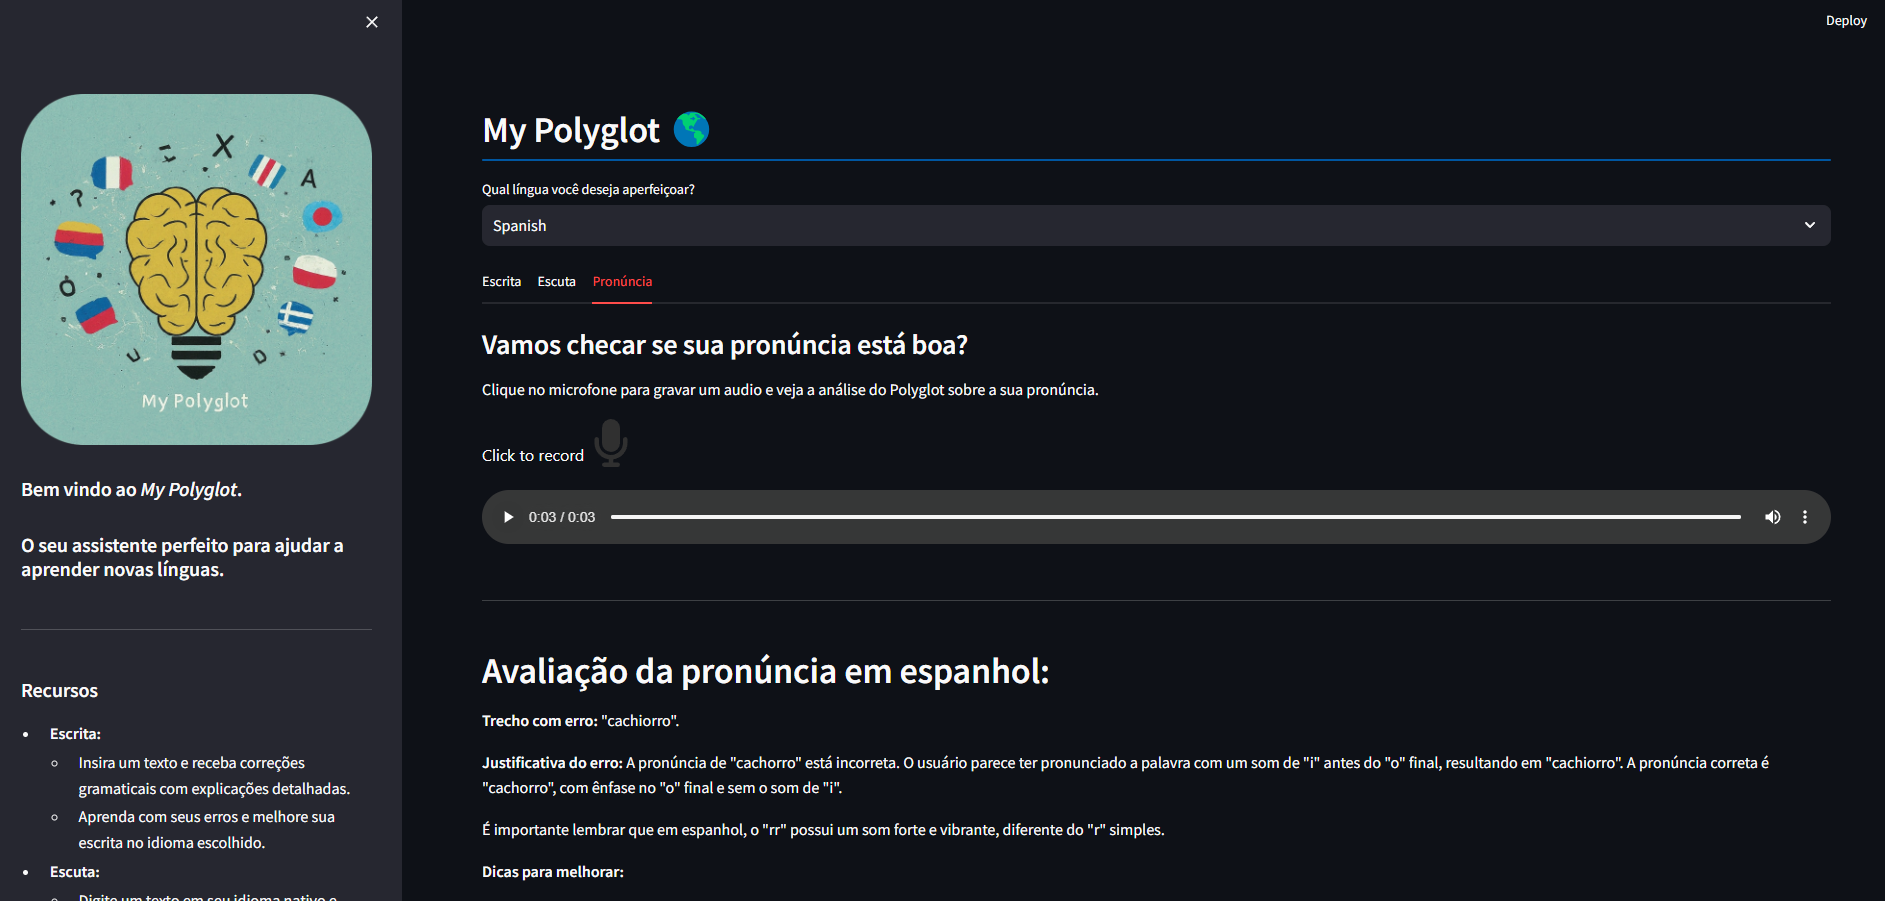
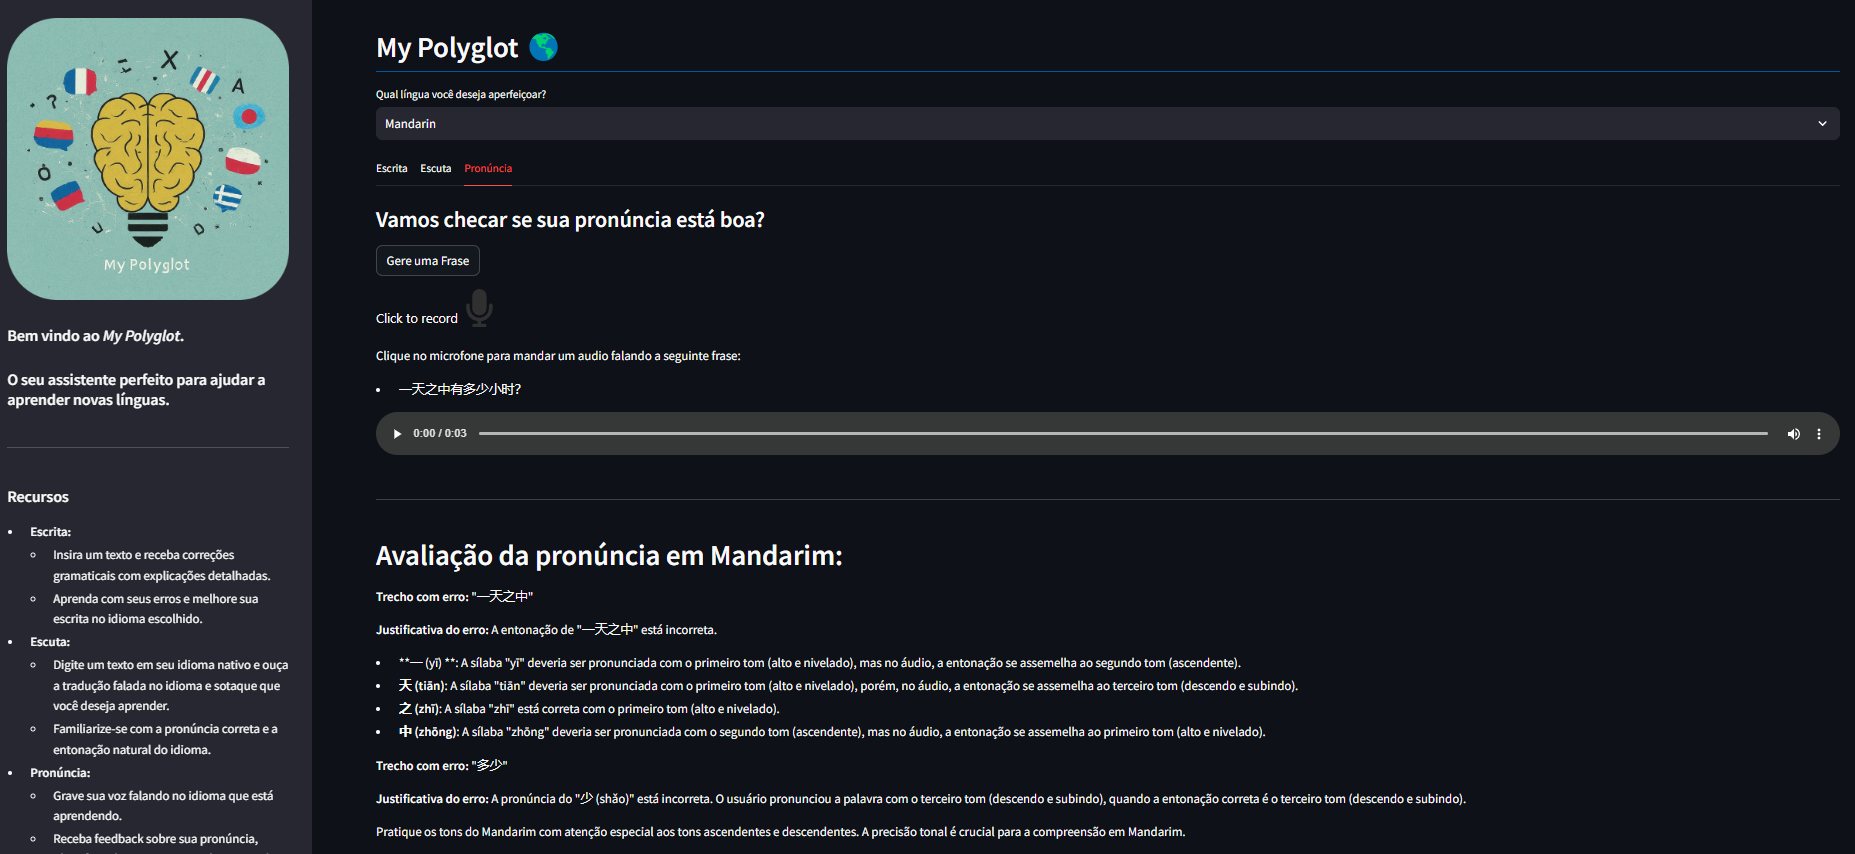
Melhoria na funcionalidade de pronuncia, diminuindo a alucinacao do modelo

diff --git a/my_app/app.py b/my_app/app.py
@@ -17,8 +17,28 @@ for file_path in list_files_to_remove:
         os.remove(file_path)
 
 
+def generate_random_phrase(language_and_accent:str):
+    generation_config = {
+    "temperature": 1,
+    "top_p": 1,
+    "top_k": 0,
+    "max_output_tokens": 2048,
+    }
+    model = genai.GenerativeModel(model_name="gemini-1.0-pro",
+                              generation_config=generation_config,
+                              safety_settings=settings.safety_settings)
 
-def transcribe_audio_to_text(speech_file_path: str, language_and_accent:str):
+    language_treated = language_and_accent.split("-")[0] #pegando somente a lingua
+
+
+    convo = model.start_chat(history=[])
+    convo.send_message(f"""Gere uma frase curta aleatória em {language_treated}. Me envie SOMENTE a frase.""")
+    response = convo.last.text
+
+    return response
+
+
+def transcribe_audio_to_text(speech_file_path: str, language_and_accent:str, random_phrase_to_check_pronunciation:str):
     ####
     # FUNCAO PARA CONVERTER AUDIO EM TEXTO E FAZER A AVALIACAO
     ####
@@ -37,6 +57,7 @@ def transcribe_audio_to_text(speech_file_path: str, language_and_accent:str):
 
     language_treated = language_and_accent.split("-")[0] #pegando somente a lingua
 
+
     convo = model.start_chat(history=[
     {
         "role": "user",
@@ -44,7 +65,7 @@ def transcribe_audio_to_text(speech_file_path: str, language_and_accent:str):
     },
     {
         "role": "user",
-    	"parts": [f"""question: Considerando o audio enviado, procure problemas de pronuncia em English e ajude o usuário a entender os erros.
+    	"parts": [f"""question: Considerando o audio como "I saw a bird in his nest", procure problemas de pronuncia em English e ajude o usuário a entender os erros.
                        Siga os seguintes requerimentos:
                        - Transcreva os textos que estão com entonação diferente da requisitada e explique o por quê.
                        - Foque em erros de pronúncia das palavras.
@@ -62,7 +83,7 @@ def transcribe_audio_to_text(speech_file_path: str, language_and_accent:str):
         "parts": [genai.upload_file(speech_file_path)]
     }])
     
-    convo.send_message(f"""question: Considerando o audio enviado, procure problemas de pronuncia em {language_treated} e ajude o usuário a entender os erros.
+    convo.send_message(f"""question: Considerando o audio como "{random_phrase_to_check_pronunciation}", procure problemas de pronuncia em {language_treated} e ajude o usuário a entender os erros.
                        Siga os seguintes requerimentos:
                        - Transcreva os textos que estão com entonação diferente da requisitada e explique o por quê.
                        - Foque em erros de pronúncia das palavras.
@@ -161,7 +182,7 @@ def main():
 
     with st.sidebar:
 
-        st.image("logo_my_polyglot_app.png")
+        st.image("my_app/logo_my_polyglot_app.png")
 
         st.markdown("""
         ## Bem vindo ao *My Polyglot*.
@@ -210,15 +231,31 @@ def main():
             st.markdown(response)
             st.audio(file_text_converted_to_audio, format="audio/mpeg")
 
+
     with tab_pronuncia:
         recorded_audio=None
-        st.subheader("Vamos checar se sua pronúncia está boa?\nClique no microfone para gravar um audio e veja a análise do Polyglot sobre a sua pronúncia.")
+        st.subheader("Vamos checar se sua pronúncia está boa?")
+
+        generate_phrase_bt = st.button("Gere uma Frase")
+    
+        #Initialize session state
+        if "generate_phrase_state" not in st.session_state:
+            st.session_state.generate_phrase_state = ""
+
         recorded_audio = audio_recorder(pause_threshold=10000)
+
+        if generate_phrase_bt:
+            st.session_state.generate_phrase_state = generate_random_phrase(language_and_accent=option_language)
+        
+            st.write("Clique no microfone para mandar um audio falando a seguinte frase: \n" + "* " + st.session_state.generate_phrase_state)
+
+
         if recorded_audio:
+            st.write("Clique no microfone para mandar um audio falando a seguinte frase: \n" + "* " + st.session_state.generate_phrase_state)
             audio_file="pronunciation_audio.mp3"
             with open(audio_file, "wb") as f:
                 f.write(recorded_audio)
-            text = transcribe_audio_to_text(speech_file_path = audio_file, language_and_accent = option_language)
+            text = transcribe_audio_to_text(speech_file_path = audio_file, language_and_accent = option_language, random_phrase_to_check_pronunciation = st.session_state.generate_phrase_state)
             st.audio(audio_file, format="audio/mpeg")
             st.divider()
             st.write(text)

diff --git a/my_app/README.md b/my_app/README.md
@@ -13,6 +13,7 @@ Este código Python utiliza a biblioteca `streamlit` para criar uma aplicação 
 * **Remoção de arquivos:** Elimina arquivos de áudio existentes para evitar conflitos.
 
 * **Funções:**
+    * **`generate_random_phrase`:** Recebe o idioma desejado e gera uma curta frase usando o Gemini para ser utilizada no check de pronúncia.
     * **`transcribe_audio_to_text`:** Recebe um arquivo de áudio e o idioma/sotaque, transcreve o áudio em texto usando o Gemini e realiza uma avaliação da pronúncia, identificando erros e sugerindo recursos de estudo.
     * **`fix_writing`:** Recebe um texto e o idioma/sotaque, corrige erros gramaticais e explica as alterações realizadas, considerando a gramática do idioma escolhido.
     * **`convert_text_to_audio`:** Recebe um texto, o idioma de origem e o idioma/sotaque desejado, traduz o texto usando o Gemini e converte o texto traduzido em áudio utilizando o gTTS.

diff --git a/README.md b/README.md
@@ -5,6 +5,7 @@
 
 ## Sobre o Projeto
 **My Polyglot** é um aplicativo web que utiliza a tecnologia de IA do Google para auxiliar no aprendizado de idiomas. Com ele, você pode praticar suas habilidades de escrita, escuta e pronúncia de forma autônoma e personalizada.
+Atualmente com suporte para Inglês, Mandarim e Espanhol
 
 ## Recursos
 
@@ -41,7 +42,7 @@ git clone https://github.com/claudiocmm/My_Polyglot_app.git
 2. **Instale as dependências:**
 
 ```bash
-pip install -r requirements.txt
+pip install -r my_app/requirements.txt
 ```
 
 3. **Configure sua chave de API:**
@@ -51,7 +52,7 @@ pip install -r requirements.txt
 4. **Execute o aplicativo:**
 
 ```bash
-streamlit run app.py
+streamlit run my_app/app.py
 ```
 
 5. **Acesse o aplicativo:** Abra seu navegador web e acesse o endereço `http://localhost:8501`.
